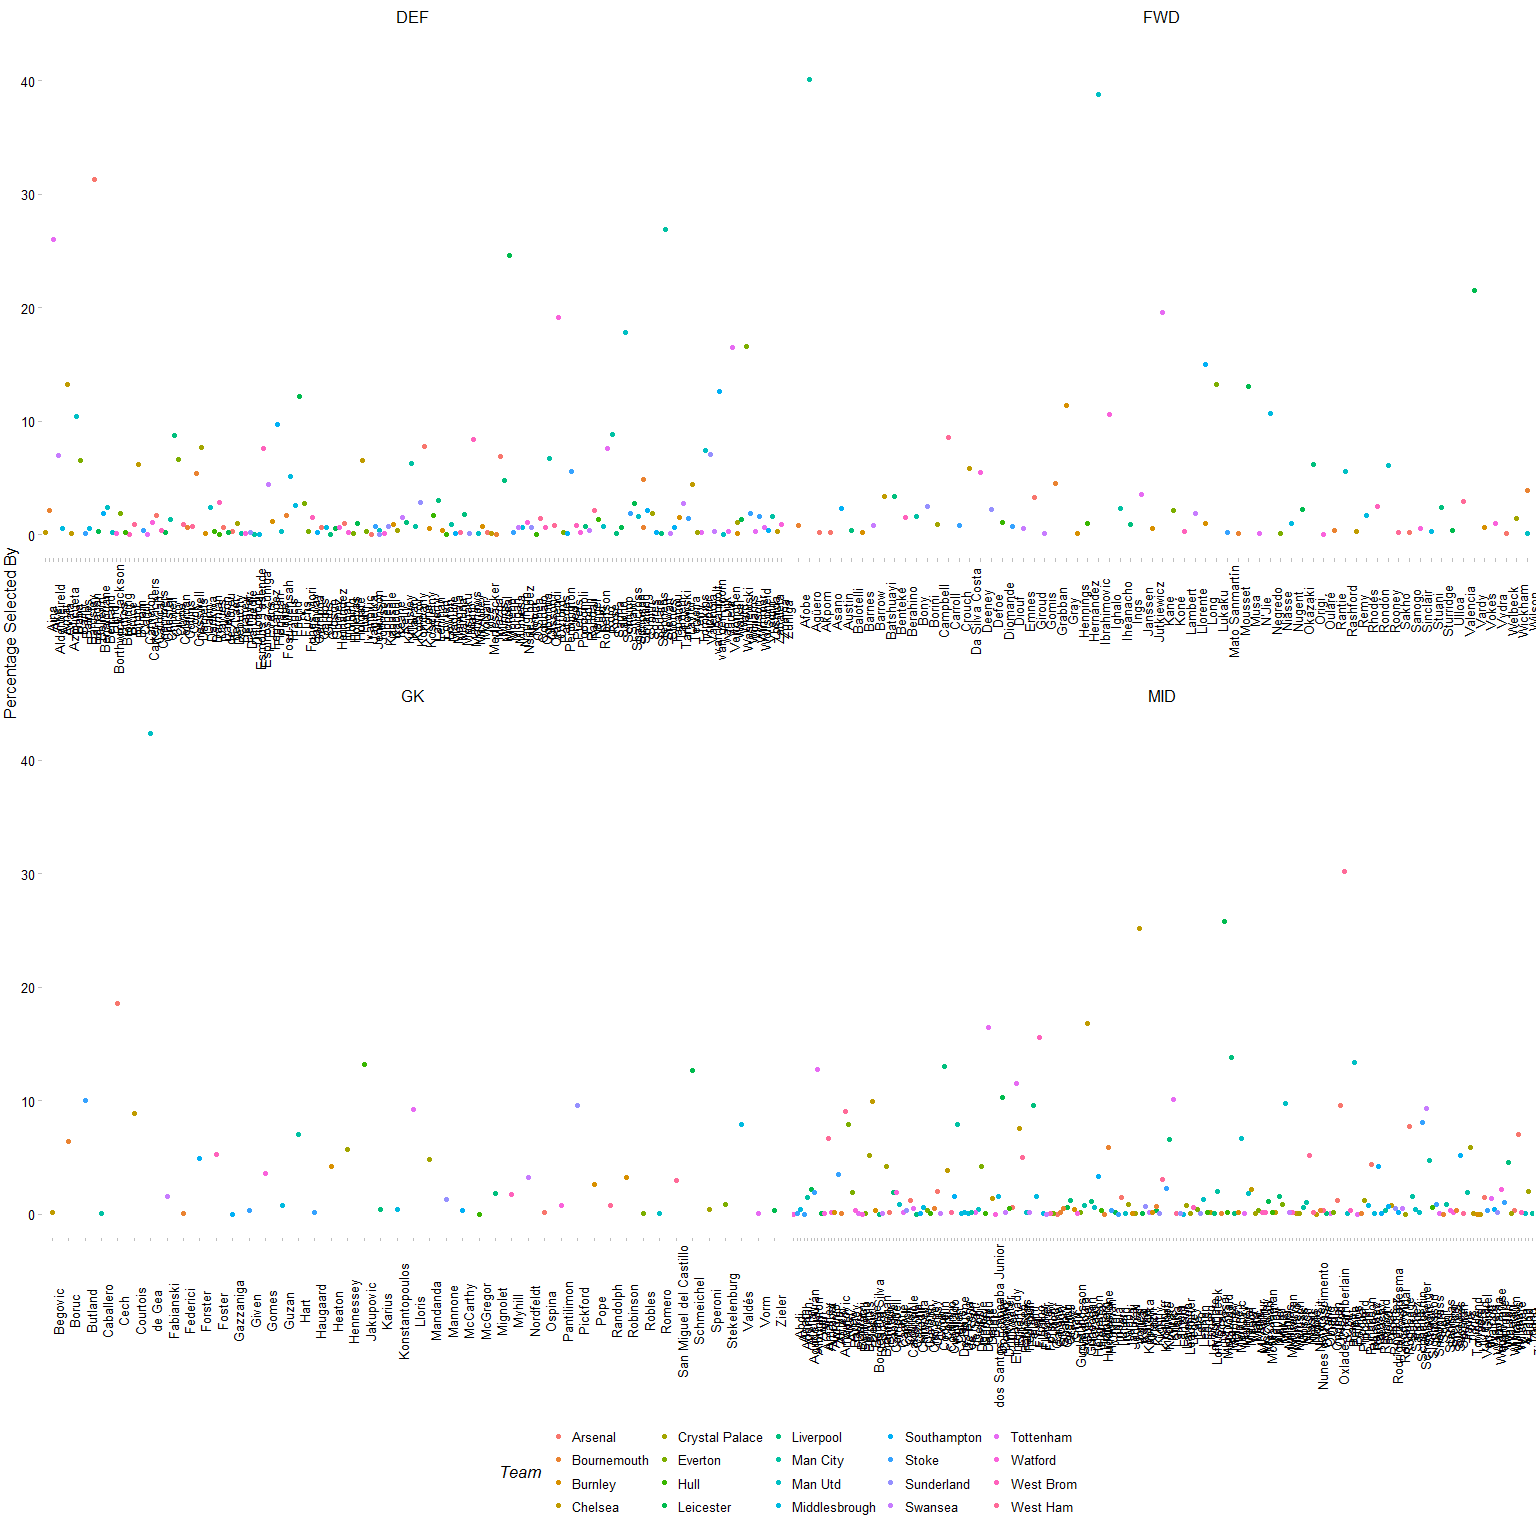
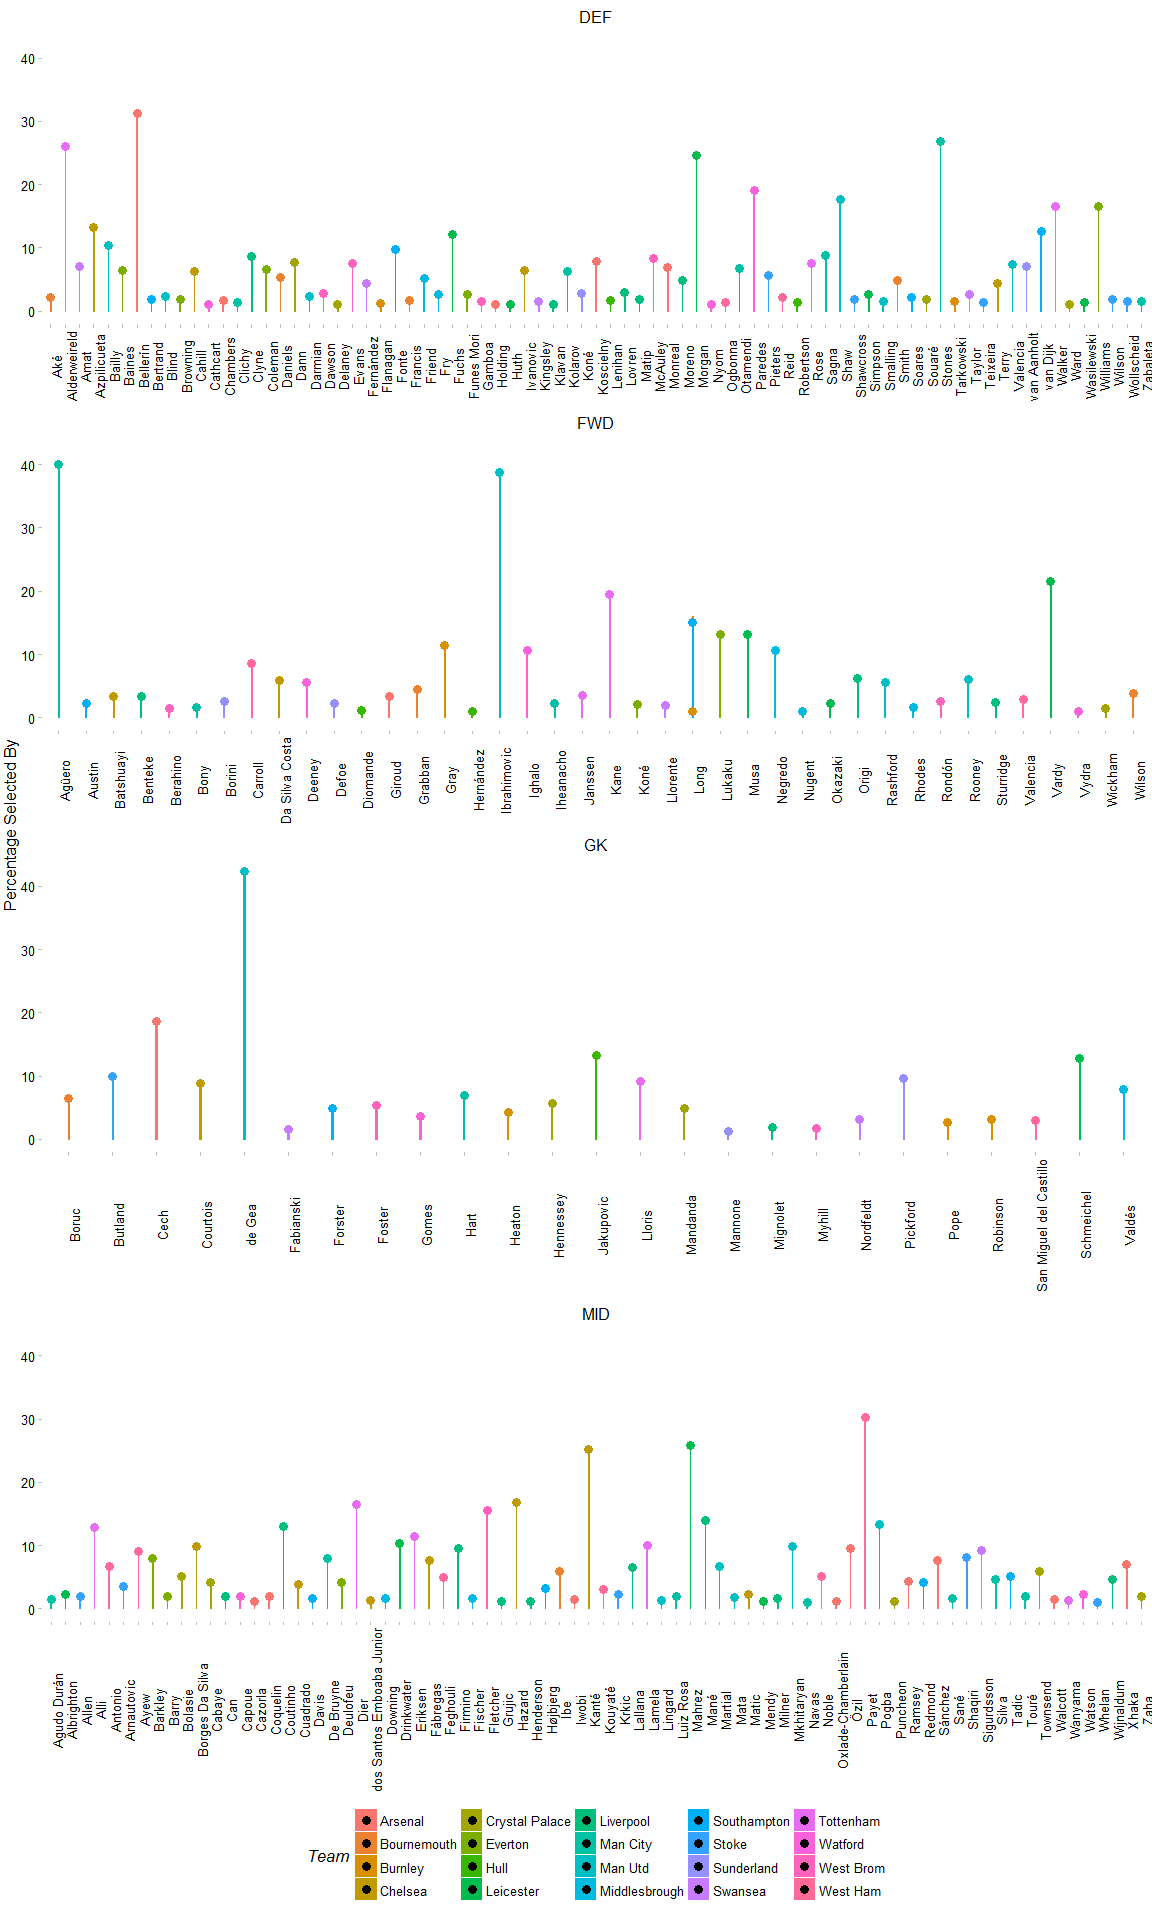
crowd wisdom

diff --git a/16-17/by-percentage.md b/16-17/by-percentage.md
@@ -38,14 +38,15 @@ Plot as percentage selected by position
 ---------------------------------------
 
 ``` r
-ggplot(ff.dfr, aes(x = second_name, y = as.numeric(selected_by_percent), colour = team.y)) + 
-  geom_point() + 
-  facet_wrap(~element_type, ncol = 2, scales = 'free_x') +
+ggplot(ff.dfr[ff.dfr$selected_by_percent > 1,], aes(x = second_name, y = as.numeric(selected_by_percent), fill = team.y, colour = team.y)) +
+  geom_bar(stat = 'identity', width = 0.03) + 
+  geom_point(size = 3) + 
+  facet_wrap(~element_type, ncol = 1, scales = 'free_x') +
   theme_pander() +
   theme(legend.position = 'bottom', 
         axis.text.x = element_text(angle = 90),
         axis.title.x = element_blank()) +
-  guides(colour = guide_legend(title = "Team")) +
+  guides(fill = guide_legend(title = "Team"), colour = 'none') +
   ylab("Percentage Selected By")
 ```
 
